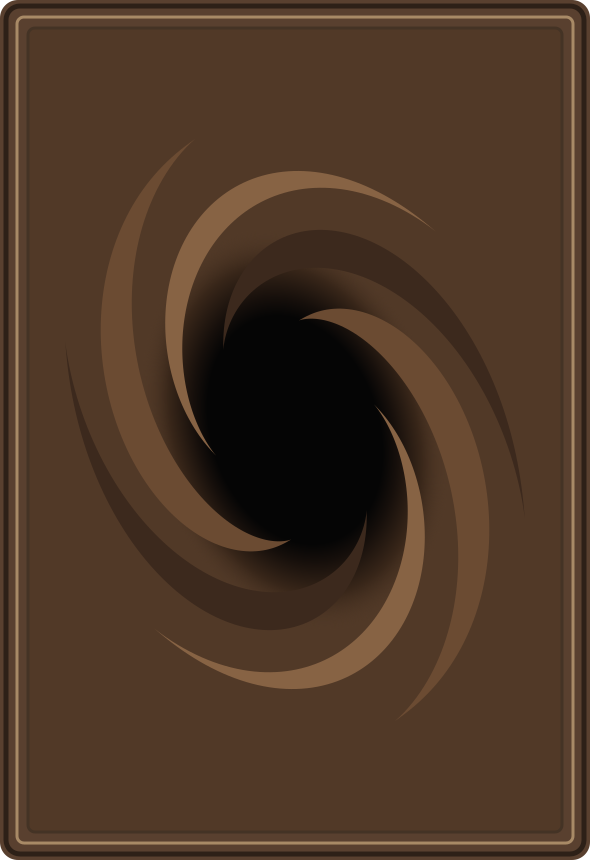
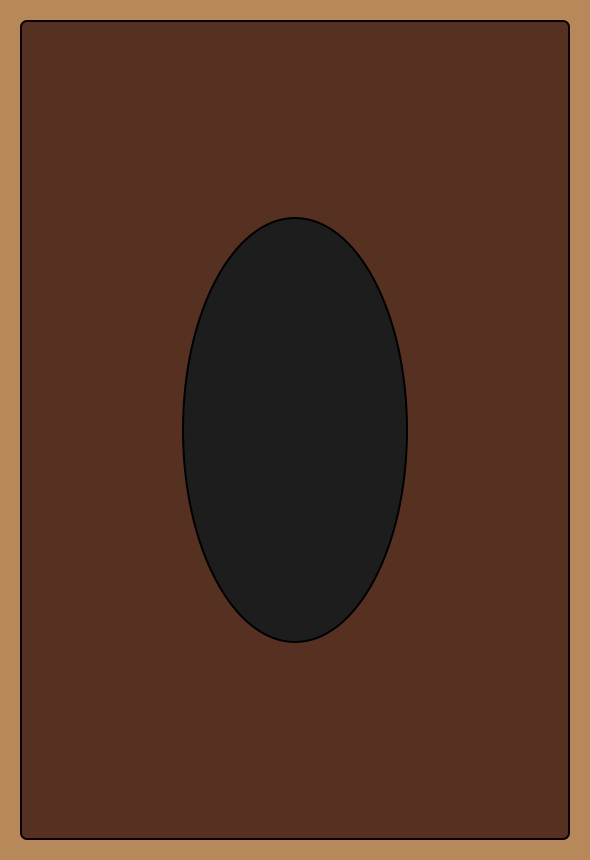
Match director reference for flat brown card back

Changed region(s): [[0.122, 0.1814, 0.8847, 0.8163], [0.0, 0.0, 1.0, 1.0]]

diff --git a/assets/source/cards/build_cards.py b/assets/source/cards/build_cards.py
@@ -1,6 +1,6 @@
 """SOLOSRC assembly code. Generated frames; reference-derived badges: see README provenance."""
 from pathlib import Path
-import json,math,os
+import json,os
 ROOT=Path(os.environ.get('CARDS_REPO',str(Path(__file__).resolve().parents[3])))
 SRC=ROOT/'assets/source/cards';SRC.mkdir(parents=True,exist_ok=True)
 for d in ['frames','icons']:(ROOT/'assets/cards'/d).mkdir(parents=True,exist_ok=True)
@@ -12,29 +12,11 @@ def save(name,w,h,body):
 DARK='#293344';IVORY='#f8f1de'
 from reference_frames import write_frames
 write_frames(SRC, save, layer)
-# Original flat brown black-hole motif, built from paired broad shapes.
-defs='<defs><clipPath id="back-field"><rect x="28" y="28" width="534" height="804" rx="7"/></clipPath></defs>'
-back=defs+'<rect width="590" height="860" rx="18" fill="#59402f"/><rect x="6" y="6" width="578" height="848" rx="14" fill="none" stroke="#2d2017" stroke-width="5"/><rect x="17" y="17" width="556" height="826" rx="7" fill="none" stroke="#a88a66" stroke-width="3"/><rect x="28" y="28" width="534" height="804" rx="7" fill="#513927" stroke="#443325" stroke-width="3"/>'
-# Broad currents meet a shared elliptical inner boundary tangentially.
-ribbons=[]
-for k in range(3):
- sides=[]
- for sign in [1,-1]:
-  pts=[]
-  for j in range(101):
-   t=j/100;ang=k*1.02+2.65*t
-   rad=.405+.675*t
-   thick=(.055+.020*k)*(math.sin(math.pi*t)**1.25)
-   x=205*(rad+sign*thick)*math.cos(ang)
-   y=285*(rad+sign*thick)*math.sin(ang)
-   turn=-18*math.pi/180
-   pts.append(f'{295+x*math.cos(turn)-y*math.sin(turn):.2f},{430+x*math.sin(turn)+y*math.cos(turn):.2f}')
-  sides.append(pts)
- ribbons.append('<path d="M'+' L'.join(sides[0]+list(reversed(sides[1])))+' Z" fill="'+['#876344','#3c291d','#6b4b32'][k]+'"/>')
-flow='<g clip-path="url(#back-field)"><g id="broad-currents">'+''.join(ribbons)+'</g><use href="#broad-currents" transform="rotate(180 295 430)"/></g>'
-# A warm-dark transition fades inward into the same ellipse as the tips.
-well='<defs><radialGradient id="inward-dark"><stop offset="0" stop-color="#050505"/><stop offset=".57" stop-color="#050505"/><stop offset=".66" stop-color="#160f0b"/><stop offset=".82" stop-color="#382619"/><stop offset="1" stop-color="#513927" stop-opacity="0"/></radialGradient></defs><ellipse cx="295" cy="430" rx="147" ry="205" transform="rotate(-18 295 430)" fill="url(#inward-dark)"/>'
-save('card_back',590,860,layer('matte-brown-frame',back)+layer('inward-transition',well)+layer('broad-currents',flow))
+# Director attachment, 2026-09-13: flat tan rim, brown field, upright dark ellipse.
+# Reconstructed as editable shapes at the existing 590x860 runtime resolution.
+back='<rect width="590" height="860" fill="#b7885a"/><rect x="21" y="21" width="548" height="818" rx="6" fill="#563121" stroke="#0b0000" stroke-width="2"/>'
+well='<ellipse cx="295" cy="430" rx="112" ry="212" fill="#1d1d1d" stroke="#000000" stroke-width="2"/>'
+save('card_back',590,860,layer('tan-rim-and-flat-brown-field',back)+layer('centered-dark-ellipse',well))
 # Original tooltip glyphs; approved main badges are copied by the exporter.
 from reference_badges import write_badges
 write_badges(SRC, save, layer)

diff --git a/docs/requests/card-back-black-hole.md b/docs/requests/card-back-black-hole.md
@@ -1,22 +1,29 @@
-# Card back: brown black hole
+# Card back: flat brown field and dark ellipse
 
-Owner: gpt-astra. Status: preview approved by the director on 2026-09-09;
-applying the approved artwork to PR #40.
+Owner: gpt-astra. Status: director-requested replacement, 2026-09-13; PR review.
 
-The approved back uses dark brown, cocoa and muted tan currents tapering around
-a soft elliptical black opening. A local warm-dark transition integrates the
-centre into the swirl instead of placing a hard black shape over it. This is
-the exact preview the director approved in chat. The brown field remains flat:
-no cloud texture, fiery streaks or event-horizon outlines. The outer contour
-is warm dark brown (#2d2017).
+Supersedes the 2026-09-09 swirl design from PR #40. The director supplied a
+735×1072 image and requested this appearance exactly. The editable SVG
+reconstructs its simple shapes and sampled dominant colors at the existing
+590×860 runtime resolution:
 
-Runtime path remains `assets/cards/frames/card_back.png` (590×860). Editable
-source and builder remain under `assets/source/cards/`. Fable needs no code,
-UV, layout or import-path changes. All front frames and icons are unchanged.
+- Full tan outer field `#b7885a`.
+- Brown inset `#563121`, at [21,21,548,818], corner radius 6; thin 2px
+  outline `#0b0000`.
+- Upright dark ellipse `#1d1d1d`, center (295,430), radii (112,212), 2px black outline.
 
-![Back](../../assets/cards/frames/card_back.png)
+No swirl, gradient, glow or cloud texture. Source image antialiasing and minor
+compression colors are not replicated; the flat shapes, palette and relative
+proportions are preserved. The original supplied attachment is not committed.
 
-The full-set preview is refreshed for comparison with the approved faces.
-Validation: exact match to the approved preview, exported dimensions, transparent
-front windows, rotational symmetry and Godot texture loading. Original SOLOSRC
-vector artwork under the repository MIT license.
+![Current back](../../assets/cards/frames/card_back.png)
+
+Runtime path remains `assets/cards/frames/card_back.png`; editable source is
+`assets/source/cards/card_back.svg`, reproduced by `build_cards.py` and
+`render_cards.cjs`. Fable needs no code, UV, front-layout or import-path changes.
+All fronts, icons and gameplay illustration PNGs are unchanged.
+
+Validation: 590×860 export, rotational symmetry, front-window/export validation
+and visual comparison with the supplied attachment. This is an editable vector
+reconstruction of director-provided artwork; attachment creator/license was not
+specified. Generator code remains MIT.

diff --git a/docs/decisions.md b/docs/decisions.md
@@ -50,3 +50,4 @@ Format: `| date | decision | rationale | decided by |`
 | 2026-09-13 | Leaving-the-field consequences (an equip's monster is gone, Snatch Steal's control returns, Premature Burial's monster is destroyed) run immediately through `IEffect.OnLeftField`, not as chain links | Rulings treat most of these as continuous effects ending; the one trigger among them (Premature Burial) gains nothing from a chain in this pool | claude-fable |
 | 2026-09-13 | Tokens leave the duel the moment they leave the field; Fusion monsters return to the Graveyard like any monster (no "properly Summoned" tracking) | No card in the pool revives a Fusion monster from the Graveyard | claude-fable |
 | 2026-09-13 | Card layout revision 5 supersedes revision 4: director-approved generated visual references are committed, matched 10px bevels, a shorter colored panel, aligned stars/attribute and larger upright stats; monster plates use 30% fill and orange-red borders | Preserve the approved design against visual drift; exact layout and provenance are recorded in systems §6.2 and the card-design reference archive | director |
+| 2026-09-13 | Replace the swirling card back with the supplied flat tan rim, brown inset and centered outlined dark ellipse | Director requested exact attachment appearance; runtime size/path unchanged, see card-back-black-hole handoff | director |
